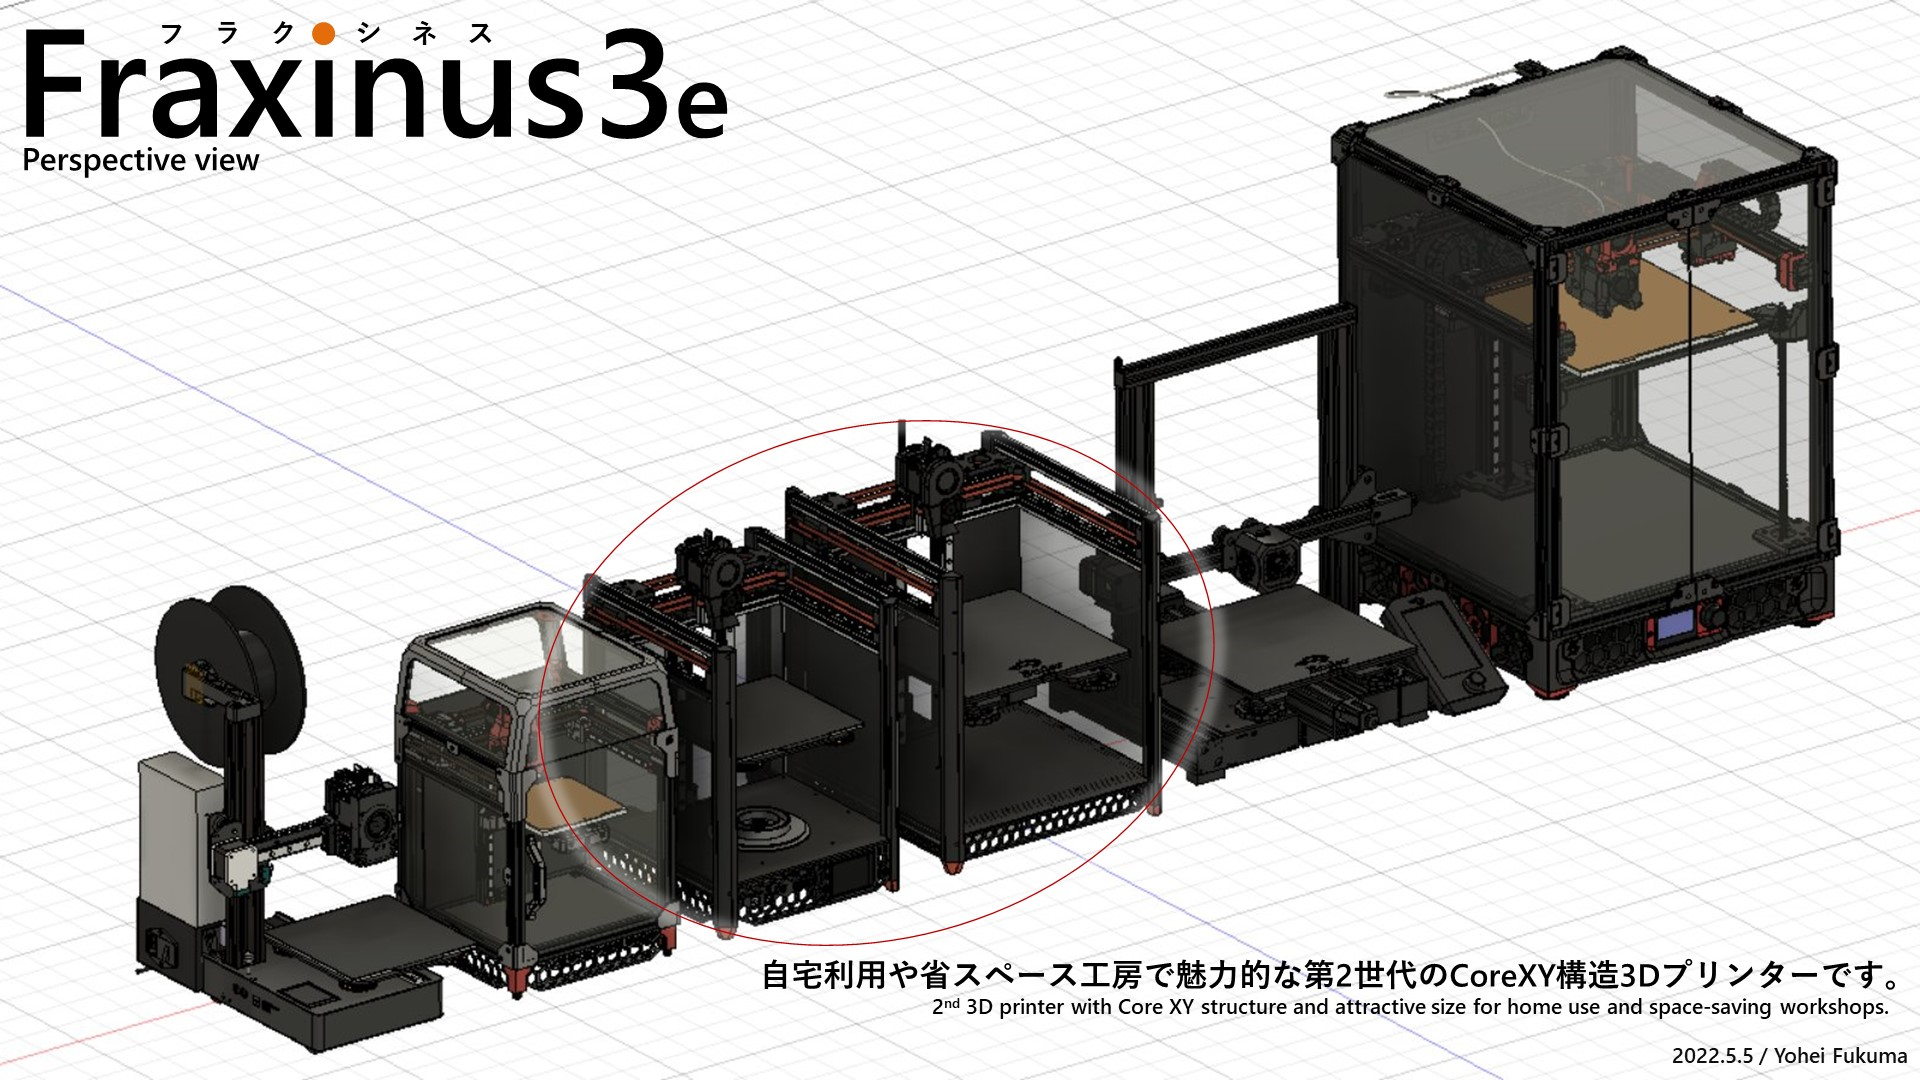
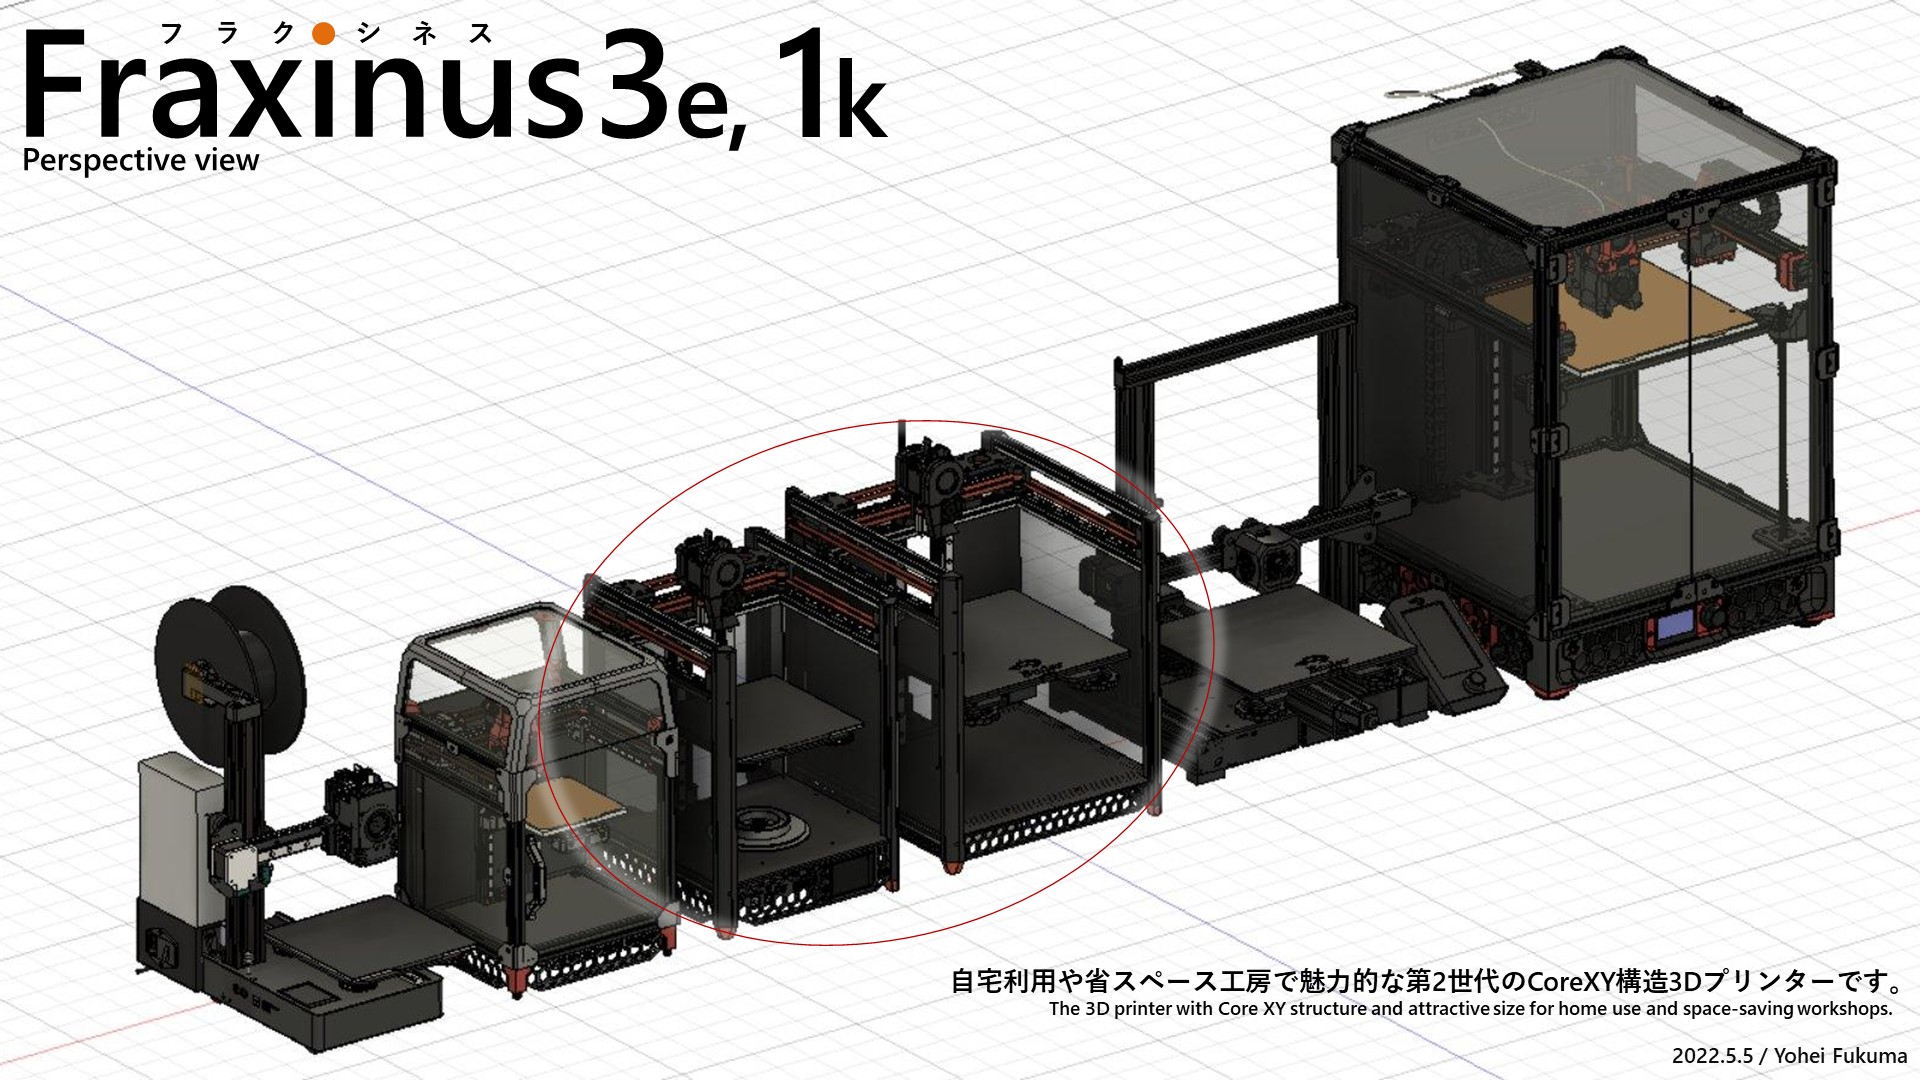
Update Fraxinus description

Changed region(s): [[0.375, 0.8861, 1.0, 0.9472], [0.4062, 0.0306, 0.4688, 0.1222], [0.375, 0.1222, 0.4062, 0.1528]]

diff --git a/content/page/about.md b/content/page/about.md
@@ -7,10 +7,13 @@ weight: -210
 
 Fraxinus（フラクシネス）は自宅利用や省スペース工房で魅力的な3Dプリンターです。  
 コンパクトでありながらCoreXY構造が持つ高速動作を実現しています。  
-現在印刷サイズは170mm角と220mm角の2機種を展開しています。
+2022年6月現在印刷サイズは170mm角と220mm角の2機種を展開しています。
 
 ![](/images/Fraxinus-1.jpg)
 ## Fraxinus1k
+
+Fraxinus1kは[Kingroon KP3S](https://jp.kingroon.com/products/3d-printer-kp3s)をアップサイクルして作製する事が出来るCoreXYの構造を持つ3Dプリンターです。  
+高速動作が可能で、KP3Sと近似の170mm角程度の印刷サイズを持ち、よりコンパクトにできます。
 
 * 本体サイズ：260x285x356mm（上部ヘッド、チューブ凸除く）
 * 印刷サイズ：165x170x185mm
@@ -18,6 +21,9 @@ Fraxinus（フラクシネス）は自宅利用や省スペース工房で魅力
 ![](/images/Fraxinus1k.jpg)
 
 ## Fraxinus3e
+
+Fraxinus3eは[Ender-3 V2](https://www.creality.com/products/ender-3-v2-3d-printer-csco)やその互換機をアップサイクルして作製する事が出来るCoreXYの構造を持つ3Dプリンターです。  
+高速動作が可能で、Ender-3 V2と近似の220mm角程度の印刷サイズを持ち、大幅に本体をサイズダウンできます。
 
 * 本体サイズ：310x335x373mm（上部ヘッド、チューブ凸除く）
 * 印刷サイズ：215x220x220mm
@@ -29,3 +35,8 @@ Fraxinus（フラクシネス）は自宅利用や省スペース工房で魅力
 ![](/images/Fraxinus-2.jpg)
 ![](/images/Fraxinus-3.jpg)
 ![](/images/Fraxinus-4.jpg)
+
+## 実際の写真
+
+![](/images/Fraxinus-photo-1.jpg)
+![](/images/Fraxinus-photo-2.jpg)

diff --git a/content/_index.md b/content/_index.md
@@ -9,12 +9,20 @@ layout: home
 
 Fraxinus（フラクシネス）は自宅利用や省スペース工房で魅力的な3Dプリンターです。  
 コンパクトでありながらCoreXY構造が持つ高速動作を実現しています。  
-現在印刷サイズは170mm角と220mm角の2機種を展開しています。
+2022年6月現在印刷サイズは170mm角と220mm角の2機種を展開しています。
 
-FraxinusはDiscordコミュニティによって開発・情報公開がされています。  
-招待リンク：[https://discord.gg/cnYvPCVKf4](https://discord.gg/cnYvPCVKf4)
+製作費用も1万円台からアップサイクルが可能[^1]で、その過程でメカ・電気・ソフトなど複数の領域を学ぶことができます。ハードウェア情報を公開しているため様々な改造を楽しむことも可能です。
 
-* [Fraxinusの詳細](/about)
+[^1]: 対象機種の費用、Klipper対応＆3D touch対応の費用を除きます
+
+Fraxinus1kと3eは共通設計部品が多く流用やアップデートができます。今後もエンクロージャー化や高速化、新機種開発など様々な開発や改造ができる見込みです。
+
+Fraxinusは現在Discordコミュニティによって開発・情報公開がされています。興味を持って頂きましたらぜひ設計開発や検討、ノウハウ共有と、何より同好の方々との交流を楽しくご一緒できると嬉しいです！
+
+Discord招待リンク：[https://discord.gg/cnYvPCVKf4](https://discord.gg/cnYvPCVKf4)
+
+Fraxinus1kと3eについて詳しくはこちら：[Fraxinusについて](/about)
 
 ![](/images/Fraxinus1k.jpg)
+
 ![](/images/Fraxinus3e.jpg)
